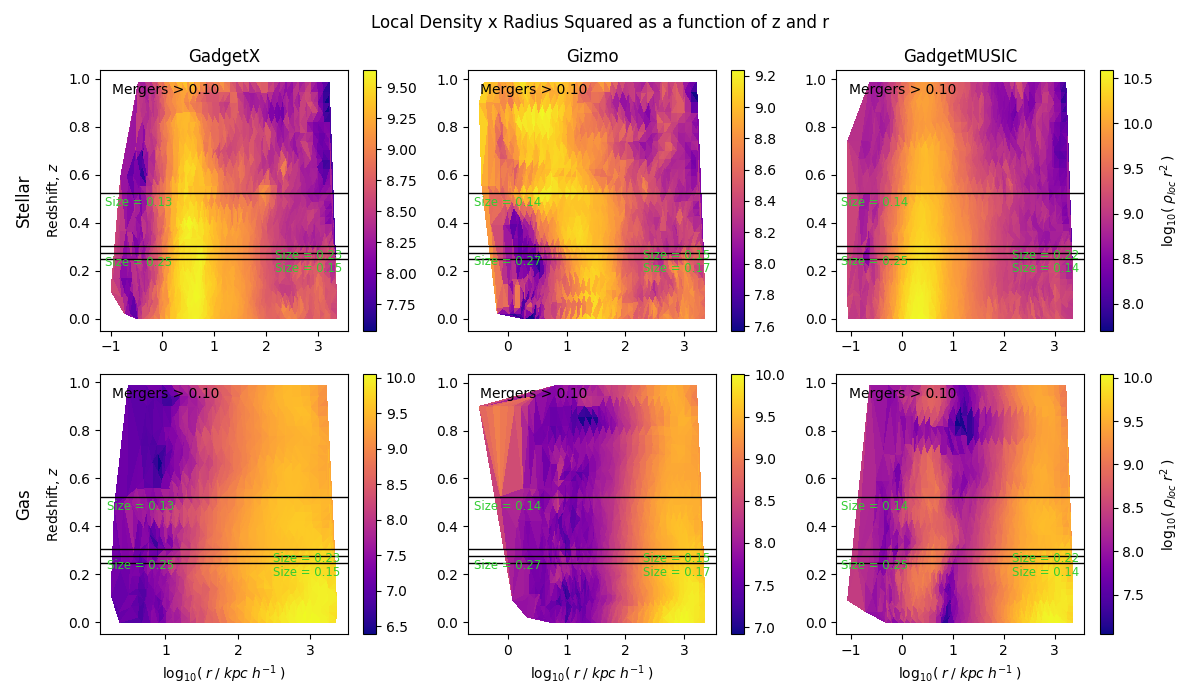
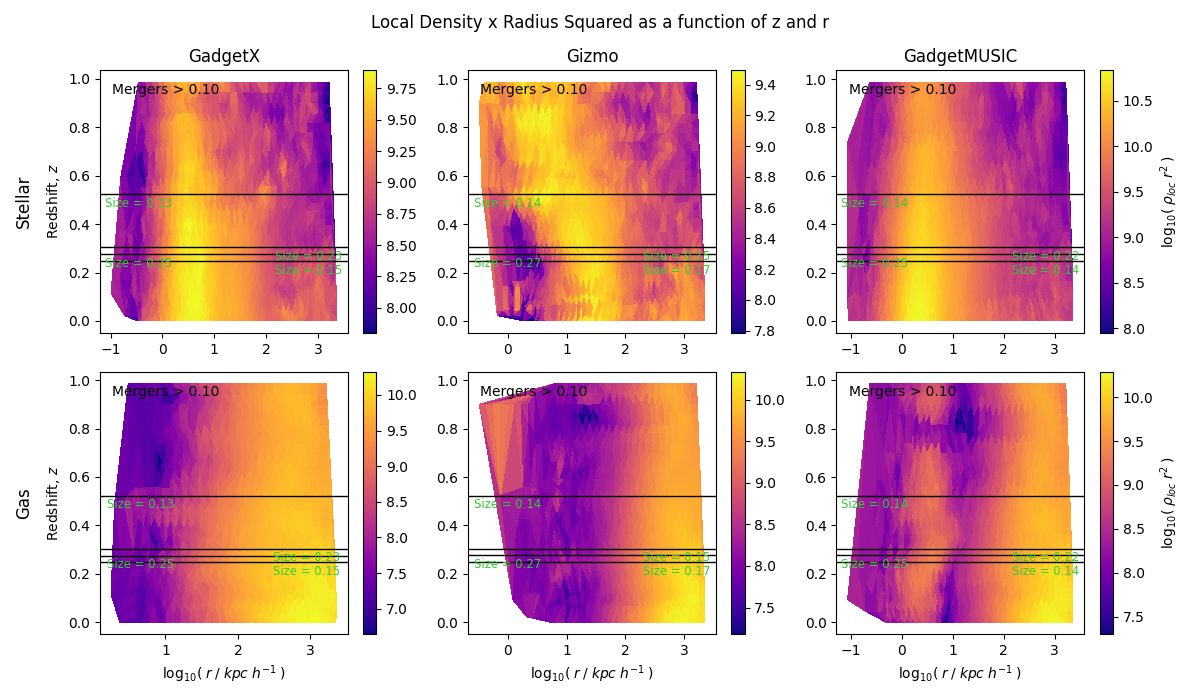
Fixed major issue with calculating local densities

diff --git a/src/ahfhalotools/objects.py b/src/ahfhalotools/objects.py
@@ -288,7 +288,20 @@ class Halo:
         -------
         volumes : array of dtype float
         """
-        return abs(4/3*np.pi*(self.radii()**3))
+        return abs((4/3)*np.pi*(self.radii()**3))
+
+    def shellvolumes(self):
+        """
+        Returns an array containing the volumes of each profile *shell* (ie
+        the volume between the current radius and the previous radius)
+
+        Returns
+        -------
+        shellvolumes : array of dtype float
+        """
+        vols = self.volumes()
+        shellvols = vols - np.append([0], vols[:-1])
+        return shellvols
 
     def encDensities(self):
         """
@@ -315,7 +328,7 @@ class Halo:
         dens : array of dtype float
         """
         shellMass = self.M_in_shell()
-        volumes = self.volumes()
+        volumes = self.shellvolumes()
         return shellMass/volumes
         #return self.profiles[:,4]
 
@@ -344,7 +357,7 @@ class Halo:
         dens : array of dtype float
         """
         shellMass = self.gasM_in_shell()
-        volumes = self.volumes()
+        volumes = self.shellvolumes()
         return shellMass/volumes
         #return self.profiles[:,4]
 
@@ -373,7 +386,7 @@ class Halo:
         dens : array of dtype float
         """
         shellMass = self.starM_in_shell()
-        volumes = self.volumes()
+        volumes = self.shellvolumes()
         return shellMass/volumes
 
     def intEnergies(self):
@@ -1057,8 +1070,11 @@ class Cluster:
             The full haloID of the halo to investigate at z=0.
             e.g. 128000000000001
         quantity : str
-            The name of the halo data piece to return
+            The name of the profile data piece to return
             e.g. "M_in_r", "encDens", "gasM_in_r", etc
+            Can alternatively be an integer that represents the index of a
+            profile data piece (eg for Ly in column (10), can give quantity = 9)
+            Note this is zero indexed.
         radius : float
             The radius at which to interpolate the quantity specified
 
@@ -1076,7 +1092,7 @@ class Cluster:
         Cluster.funcOfZDeltaProfileData
         Cluster.funcOfAgeDeltaProfileData
         """
-        if quantity.startswith("delta"):
+        if type(quantity) == type(str()) and quantity.startswith("delta"):
             return self.funcOfZDeltaProfileData(haloID,quantity[5:],radius)
         halos = self.trackHalo(haloID)
         zs = np.array([halo.z for halo in halos])
@@ -1100,8 +1116,11 @@ class Cluster:
             The full haloID of the halo to investigate at z=0.
             e.g. 128000000000001
         quantity : str
-            The name of the halo data piece to return
+            The name of the profile data piece to return
             e.g. "M_in_r", "encDens", "gasM_in_r", etc
+            Can alternatively be an integer that represents the index of a
+            profile data piece (eg for Ly in column (10), can give quantity = 9)
+            Note this is zero indexed.
         radius : float
             The radius at which to interpolate the quantity specified
 
@@ -1138,6 +1157,9 @@ class Cluster:
             The name of the halo data piece to return
             e.g. "M_in_r", "encDens", "gasM_in_r", etc
             Note that the quantity should not include a "delta"
+            Can alternatively be an integer that represents the index of a
+            profile data piece (eg for Ly in column (10), can give quantity = 9)
+            Note this is zero indexed.
         radius : float
             The radius at which to interpolate the quantity specified
 
@@ -1156,7 +1178,7 @@ class Cluster:
         Cluster.funcOfAgeProfileData
         Cluster.funcOfAgeDeltaProfileData
         """
-        if quantity.startswith("delta"):
+        if type(quantity) == type(str()) and quantity.startswith("delta"):
             quantity = quantity[5:]
 
         #get redshifts and values for non-delta quantity
@@ -1185,6 +1207,9 @@ class Cluster:
             The name of the halo data piece to return
             e.g. "M_in_r", "encDens", "gasM_in_r", etc
             Note that the quantity should not include a "delta"
+            Can alternatively be an integer that represents the index of a
+            profile data piece (eg for Ly in column (10), can give quantity = 9)
+            Note this is zero indexed.
         radius : float
             The radius at which to interpolate the quantity specified
 
@@ -1221,7 +1246,7 @@ class Cluster:
             The full haloID of the halo being investigated in the *oldest*
             snapshot of interest
         quantity : str
-            The name of the profile data piece to use
+            The name or column index of the profile data piece to use
         removeZeroes : bool
             Whether or not to remove points where the z value is 0. Default = False
 
@@ -1284,6 +1309,9 @@ class Cluster:
         quantity : str
             The name of the halo data piece to return
             e.g. "M_in_r", "encDens", "gasM_in_r", etc
+            Can alternatively be an integer that represents the index of a
+            profile data piece (eg for Ly in column (10), can give quantity = 9)
+            Note this is zero indexed.
         removeZeroes : bool, default = False
             If True will remove any entries where the value of {quantity} is 0
 
@@ -1297,15 +1325,22 @@ class Cluster:
         """
         halo = self.getHalo(haloID)
         rs = halo.radii()
-        quantitydict = halo.getProfileQuantityDict()
-        values = None
-        try:
-            values = quantitydict[quantity]()
-        except KeyError as err:
-            message = "Invalid profile data quantity key {0}. To retrieve valid "\
-                      "profile data keys, one can call "\
-                      "Halo.getProfileQuantityDict() on a Halo instance.".format(quantity)
-            raise KeyError(message) from err
+
+        if type(quantity) == type(int()):
+            #have passed an index rather than a string key
+            values = halo.profiles[:,quantity]
+        else:
+            quantitydict = halo.getProfileQuantityDict()
+            values = None
+            try:
+                values = quantitydict[quantity]()
+            except KeyError as err:
+                message = "Invalid profile data quantity key {0}. To retrieve valid "\
+                          "profile data keys, one can call "\
+                          "Halo.getProfileQuantityDict() on a Halo instance, or use"\
+                          " the quantity's column index (eg for Ly in column (10), "\
+                          "can give quantity = 9)".format(quantity)
+                raise KeyError(message) from err
         if removeZeroes:
             #search for 0s in vals
             indexes = np.argwhere(values==0)

diff --git a/examples/clusterCompDensvR.py b/examples/clusterCompDensvR.py
@@ -1,6 +1,9 @@
 import numpy as np
 import ahfhalotools.filetools as ft
 from ahfhalotools.objects import Cluster
+from astropy.cosmology import FlatLambdaCDM
+from astropy.cosmology import WMAP9
+from astropy import units as au
 
 #define base file name for full, untruncated files
 fileNameBaseGX = "{simName}-NewMDCLUSTER_{clusterNum:0=4d}.snap_{snap:0=3d}.z{z:.3f}"
@@ -18,13 +21,14 @@ snapNos = np.arange(97,129)
 truncSize = 1
 
 #cluster numbers
-clusterNums = np.arange(1,325)
+#clusterNums = np.arange(1,325)
+clusterNums = np.arange(1,5)
 
 # N.B. for GadgetMUSIC data, for some reason, for cluster numbers 22 and above,
 # there are only 17 snapshots. The snapshots with redshift less than one are
 # 7-17, so we truncate these separately.
 
-# #up to 128
+#up to 128
 # musClusters1 = ft.loadClusters(np.arange(1,22), snapNos, "GadgetMUSIC",
 #                                directory = directory,
 #                                fileBaseFmt = fileNameBaseMus,
@@ -35,11 +39,36 @@ clusterNums = np.arange(1,325)
 #                                fileBaseFmt = fileNameBaseMus,
 #                                printProgress = True, skipmtree = True)
 #
-# gizClusters = ft.loadClusters(clusterNums, snapNos, "GIZMO",
-#                               directory = directory, printProgress = True,
-#                               skipmtree = True)
+gizClusters = ft.loadClusters(clusterNums, snapNos, "GIZMO",
+                              directory = directory, printProgress = True,
+                              skipmtree = True)
 
 gxClusters = ft.loadClusters(clusterNums, snapNos, "GadgetX",
                              directory = directory, printProgress = True,
                              skipmtree = True)
-print(gxClusters)
+
+## ------------ PLOT ------------- ##
+# local density over critical density vs r/Rvir at z=0
+
+# get critical density at z=0 using parameters from simulations
+flcdm = FlatLambdaCDM(H0=WMAP9.H(0), Om0=0.307, Ob0=0.048)
+rhoCrit = flcdm.critical_density(0)
+# units of density calculated from profile data is Msol kpc^-3 h^2
+# so must convert units to Msol kpc^-3
+rhoCrit = rhoCrit.to(au.solMass / (au.kpc)**3)
+
+##TESTING
+'''
+Explanation of testing code below:
+This code demonstrates that by taking the manually calculated density from
+the named profile data keys ("encDens", "locDens" etc), removing the h^2
+dependency, and dividing by rho_crit, we can get back to the ovdens column
+in the .AHF_profiles file.
+'''
+#calculated enclosed density
+r, ovdens = gxClusters[0].funcOfRadiusProfileData(128000000000001,"locDens")
+ovdens = ovdens * flcdm.h**2 / rhoCrit.value
+#get ovdens column from .AHF_profiles
+r, ovdens2 = gxClusters[0].funcOfRadiusProfileData(128000000000001,4)
+print(ovdens2/ovdens) # should be an array of (close to) 1s
+print(flcdm.Ob(0))

diff --git a/examples/deltaProfileDatavTime.py b/examples/deltaProfileDatavTime.py
@@ -12,7 +12,7 @@ fileNameBaseGX = "GadgetX-NewMDCLUSTER_0001.snap_{snap:0=3d}.z{z:.3f}"
 fileNameBaseGiz = "GIZMO-NewMDCLUSTER_0001.snap_{snap:0=3d}.z{z:.3f}"
 fileNameBaseMus = "GadgetMUSIC-NewMDCLUSTER_0001.z{z:.3f}"
 #define directory
-gxdir = "gadgetX\\"
+gxdir = "GadgetX\\NewMDCLUSTER_0001\\"
 gizdir = "gizmo\\"
 musdir = "music\\"
 #define snapshots to load
@@ -65,7 +65,7 @@ for i in range(3):
         cluster = clusters[j]
 
         ## can get delta values in two ways:
-        #age, deltaM = cluster.funcOfAgeDeltaHaloData(haloID,quantities[i])
+        #age, deltaM = cluster.funcOfAgeDeltaProfileData(haloID,quantities[i],radius)
         age, deltaM = cluster.funcOfAgeProfileData(haloID,"delta"+quantities[i],radius)
 
         _, M = cluster.funcOfAgeProfileData(haloID,quantities[i],radius)

diff --git a/examples/zrPlot.py b/examples/zrPlot.py
@@ -14,7 +14,9 @@ fileNameBaseGX = "GadgetX-NewMDCLUSTER_0001.snap_{snap:0=3d}.z{z:.3f}"
 fileNameBaseGiz = "GIZMO-NewMDCLUSTER_0001.snap_{snap:0=3d}.z{z:.3f}"
 fileNameBaseMus = "GadgetMUSIC-NewMDCLUSTER_0001.z{z:.3f}"
 #define directory
-gxdir = "gadgetX\\"
+#this is where the untruncated files are, just for the purposes of getting the
+# snapshot number to z map
+gxdir = "GadgetX\\NewMDCLUSTER_0001\\"
 gizdir = "gizmo\\"
 musdir = "music\\"
 #define snapshots to load

diff --git a/examples/profileData3DPlots.py b/examples/profileData3DPlots.py
@@ -12,7 +12,7 @@ fileNameBaseGX = "GadgetX-NewMDCLUSTER_0001.snap_{snap:0=3d}.z{z:.3f}"
 fileNameBaseGiz = "GIZMO-NewMDCLUSTER_0001.snap_{snap:0=3d}.z{z:.3f}"
 fileNameBaseMus = "GadgetMUSIC-NewMDCLUSTER_0001.z{z:.3f}"
 #define directory
-gxdir = "gadgetX\\"
+gxdir = "GadgetX\\NewMDCLUSTER_0001\\"
 gizdir = "gizmo\\"
 musdir = "music\\"
 #define snapshots to load

diff --git a/examples/profileDatavRadius.py b/examples/profileDatavRadius.py
@@ -10,7 +10,7 @@ fileNameBaseGX = "GadgetX-NewMDCLUSTER_0001.snap_{snap:0=3d}.z{z:.3f}"
 fileNameBaseGiz = "GIZMO-NewMDCLUSTER_0001.snap_{snap:0=3d}.z{z:.3f}"
 fileNameBaseMus = "GadgetMUSIC-NewMDCLUSTER_0001.z{z:.3f}"
 #define directory
-gxdir = "gadgetX\\"
+gxdir = "GadgetX\\NewMDCLUSTER_0001\\"
 gizdir = "gizmo\\"
 musdir = "music\\"
 #define snapshots to load

diff --git a/examples/profileDatavTime.py b/examples/profileDatavTime.py
@@ -11,7 +11,7 @@ fileNameBaseGX = "GadgetX-NewMDCLUSTER_0001.snap_{snap:0=3d}.z{z:.3f}"
 fileNameBaseGiz = "GIZMO-NewMDCLUSTER_0001.snap_{snap:0=3d}.z{z:.3f}"
 fileNameBaseMus = "GadgetMUSIC-NewMDCLUSTER_0001.z{z:.3f}"
 #define directory
-gxdir = "gadgetX\\"
+gxdir = "GadgetX\\NewMDCLUSTER_0001\\"
 gizdir = "gizmo\\"
 musdir = "music\\"
 #define snapshots to load
